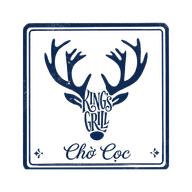
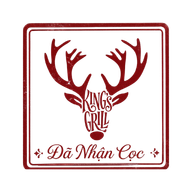
fix(ui): correct stamp image mapping and adjust position

Changed region(s): [[0.0938, 0.0938, 0.9062, 0.9062]]

diff --git a/src/components/core/BillPreview.vue b/src/components/core/BillPreview.vue
@@ -163,7 +163,7 @@ function openZaloChat() {
             </div>
 
             <!-- Stamp -->
-            <div class="absolute top-4 right-0 z-20 pointer-events-none" :style="{ transform: `rotate(-4deg) translate(${stampParallax.x}px, ${stampParallax.y}px)` }">
+            <div class="absolute -top-2 right-0 z-20 pointer-events-none" :style="{ transform: `rotate(-4deg) translate(${stampParallax.x}px, ${stampParallax.y}px)` }">
               <div class="relative w-[260px] h-[260px] flex flex-col items-center justify-center">
                 <img :src="formStore.deposit.isPaid ? '/images/stamps/paid.png' : '/images/stamps/pending.png'" class="absolute inset-0 w-full h-full object-contain filter drop-shadow-lg" alt="Stamp" />
                 <div v-if="formStore.deposit.isPaid" class="absolute bottom-[23%] left-0 w-full text-center text-[#d11124] font-black tracking-widest whitespace-nowrap" style="font-family: 'Cal Sans', sans-serif; font-size: 18px;">

diff --git a/src/components/core/PublicBill.vue b/src/components/core/PublicBill.vue
@@ -237,7 +237,7 @@ onUnmounted(() => { if (timer) clearInterval(timer) })
             </div>
 
             <!-- STAMP -->
-            <div class="absolute top-1/2 right-0 -translate-y-1/2 pointer-events-none origin-right z-20" style="transform: scale(0.65) rotate(-5deg);">
+            <div class="absolute top-2 right-0 pointer-events-none origin-right z-20" style="transform: scale(0.65) rotate(-5deg);">
               <div class="relative w-[220px] h-[220px] flex flex-col items-center justify-center">
                 <img :src="order.isDeposited ? '/images/stamps/paid.png' : '/images/stamps/pending.png'" class="absolute inset-0 w-full h-full object-contain filter drop-shadow-md" alt="Stamp" />
                 <div v-if="order.isDeposited" class="absolute bottom-[23%] left-0 w-full text-center text-[#d11124] font-black tracking-widest whitespace-nowrap" style="font-family: 'Cal Sans', sans-serif; font-size: 15px;">
